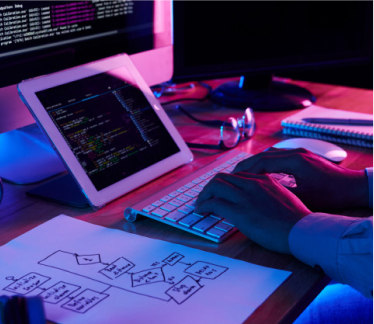
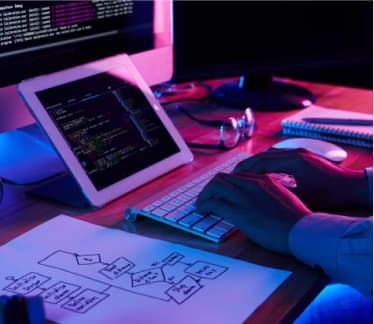
images optimized

diff --git a/index.html b/index.html
@@ -23,10 +23,10 @@
     </main>
     <table>
         <tr>
-          <th>ATENCIÓN A LOS DETALLES</th>
-          <th>PUNTUALIDAD</th>
-          <th>PLANIFICACIÓN</th>
-          <th>TECNOLOGÍA MODERNA</th>
+          <th><h3>ATENCIÓN A LOS DETALLES</h3></th>
+          <th><h3>PUNTUALIDAD</h3></th>
+          <th><h3>PLANIFICACIÓN</h3></th>
+          <th><h3>TECNOLOGÍA MODERNA</h3></th>
         </tr>
         <tr>
           <td>Nos adentramos en todos los detalles y procesos de su negocio, para así desarrollar una solución a su medida.</td>
@@ -36,5 +36,6 @@
         </tr>
       </table>
       <h2>A qué nos dedicamos</h2>
+      
 </body>
 </html>
